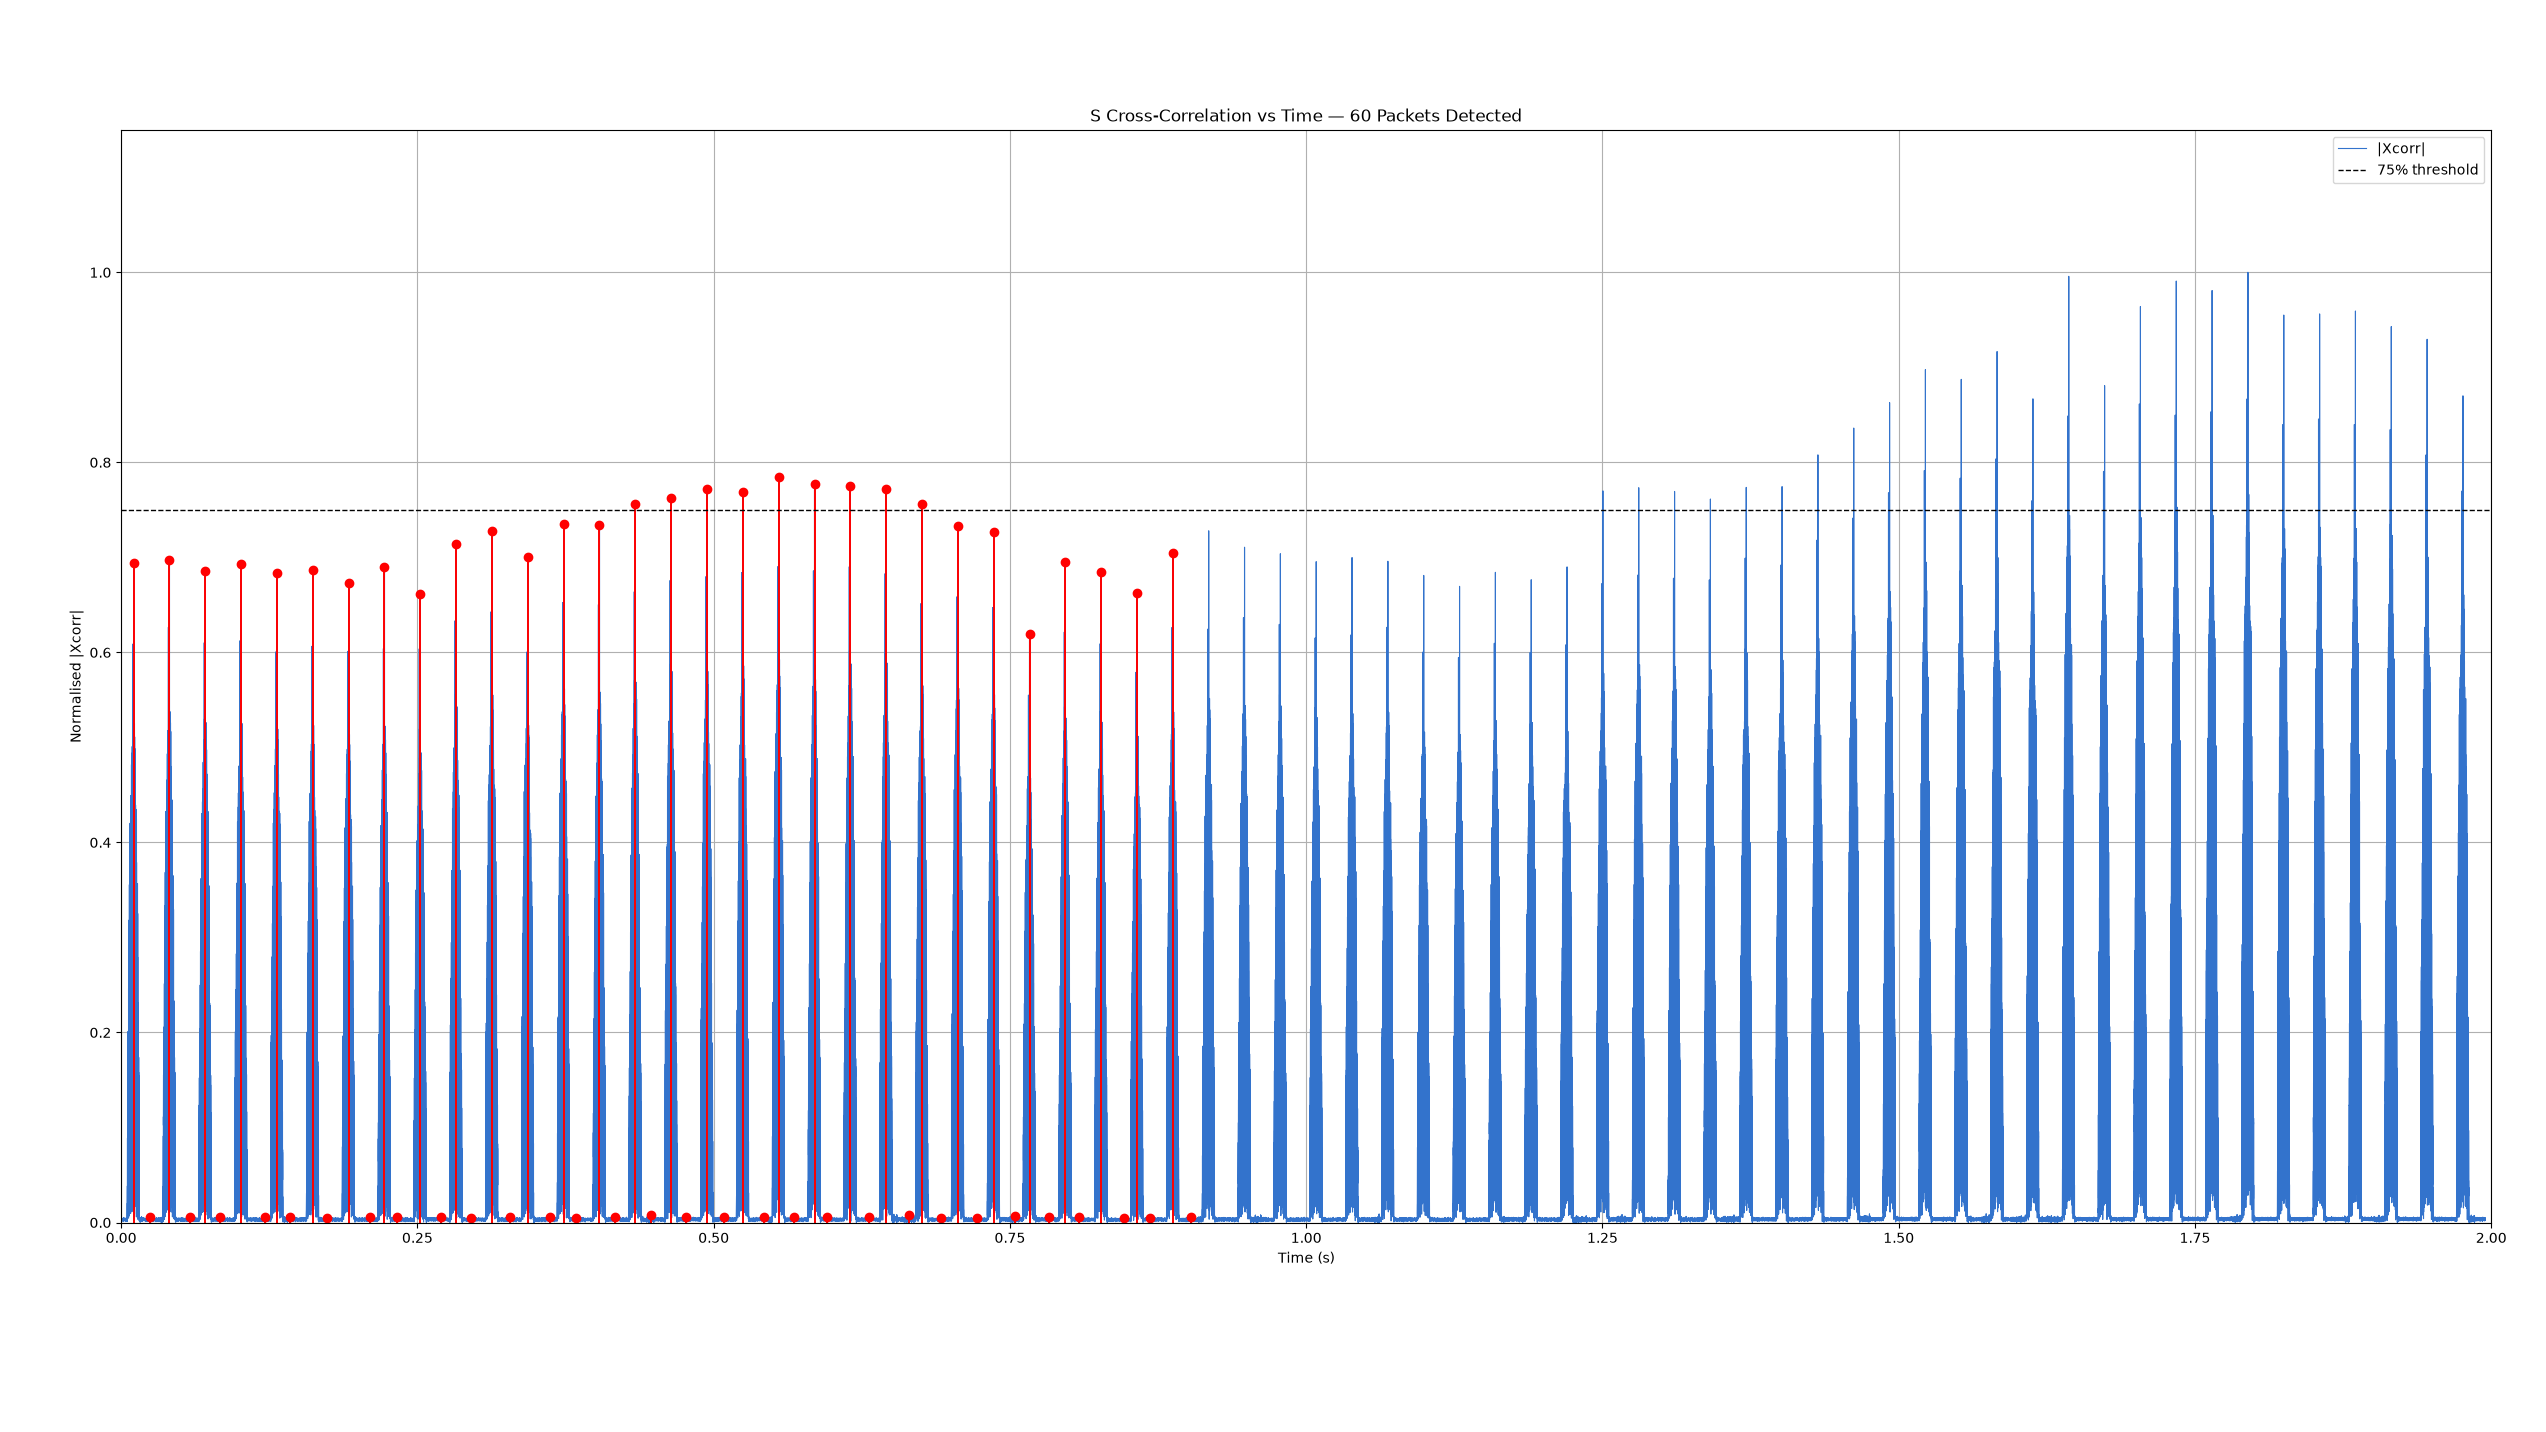
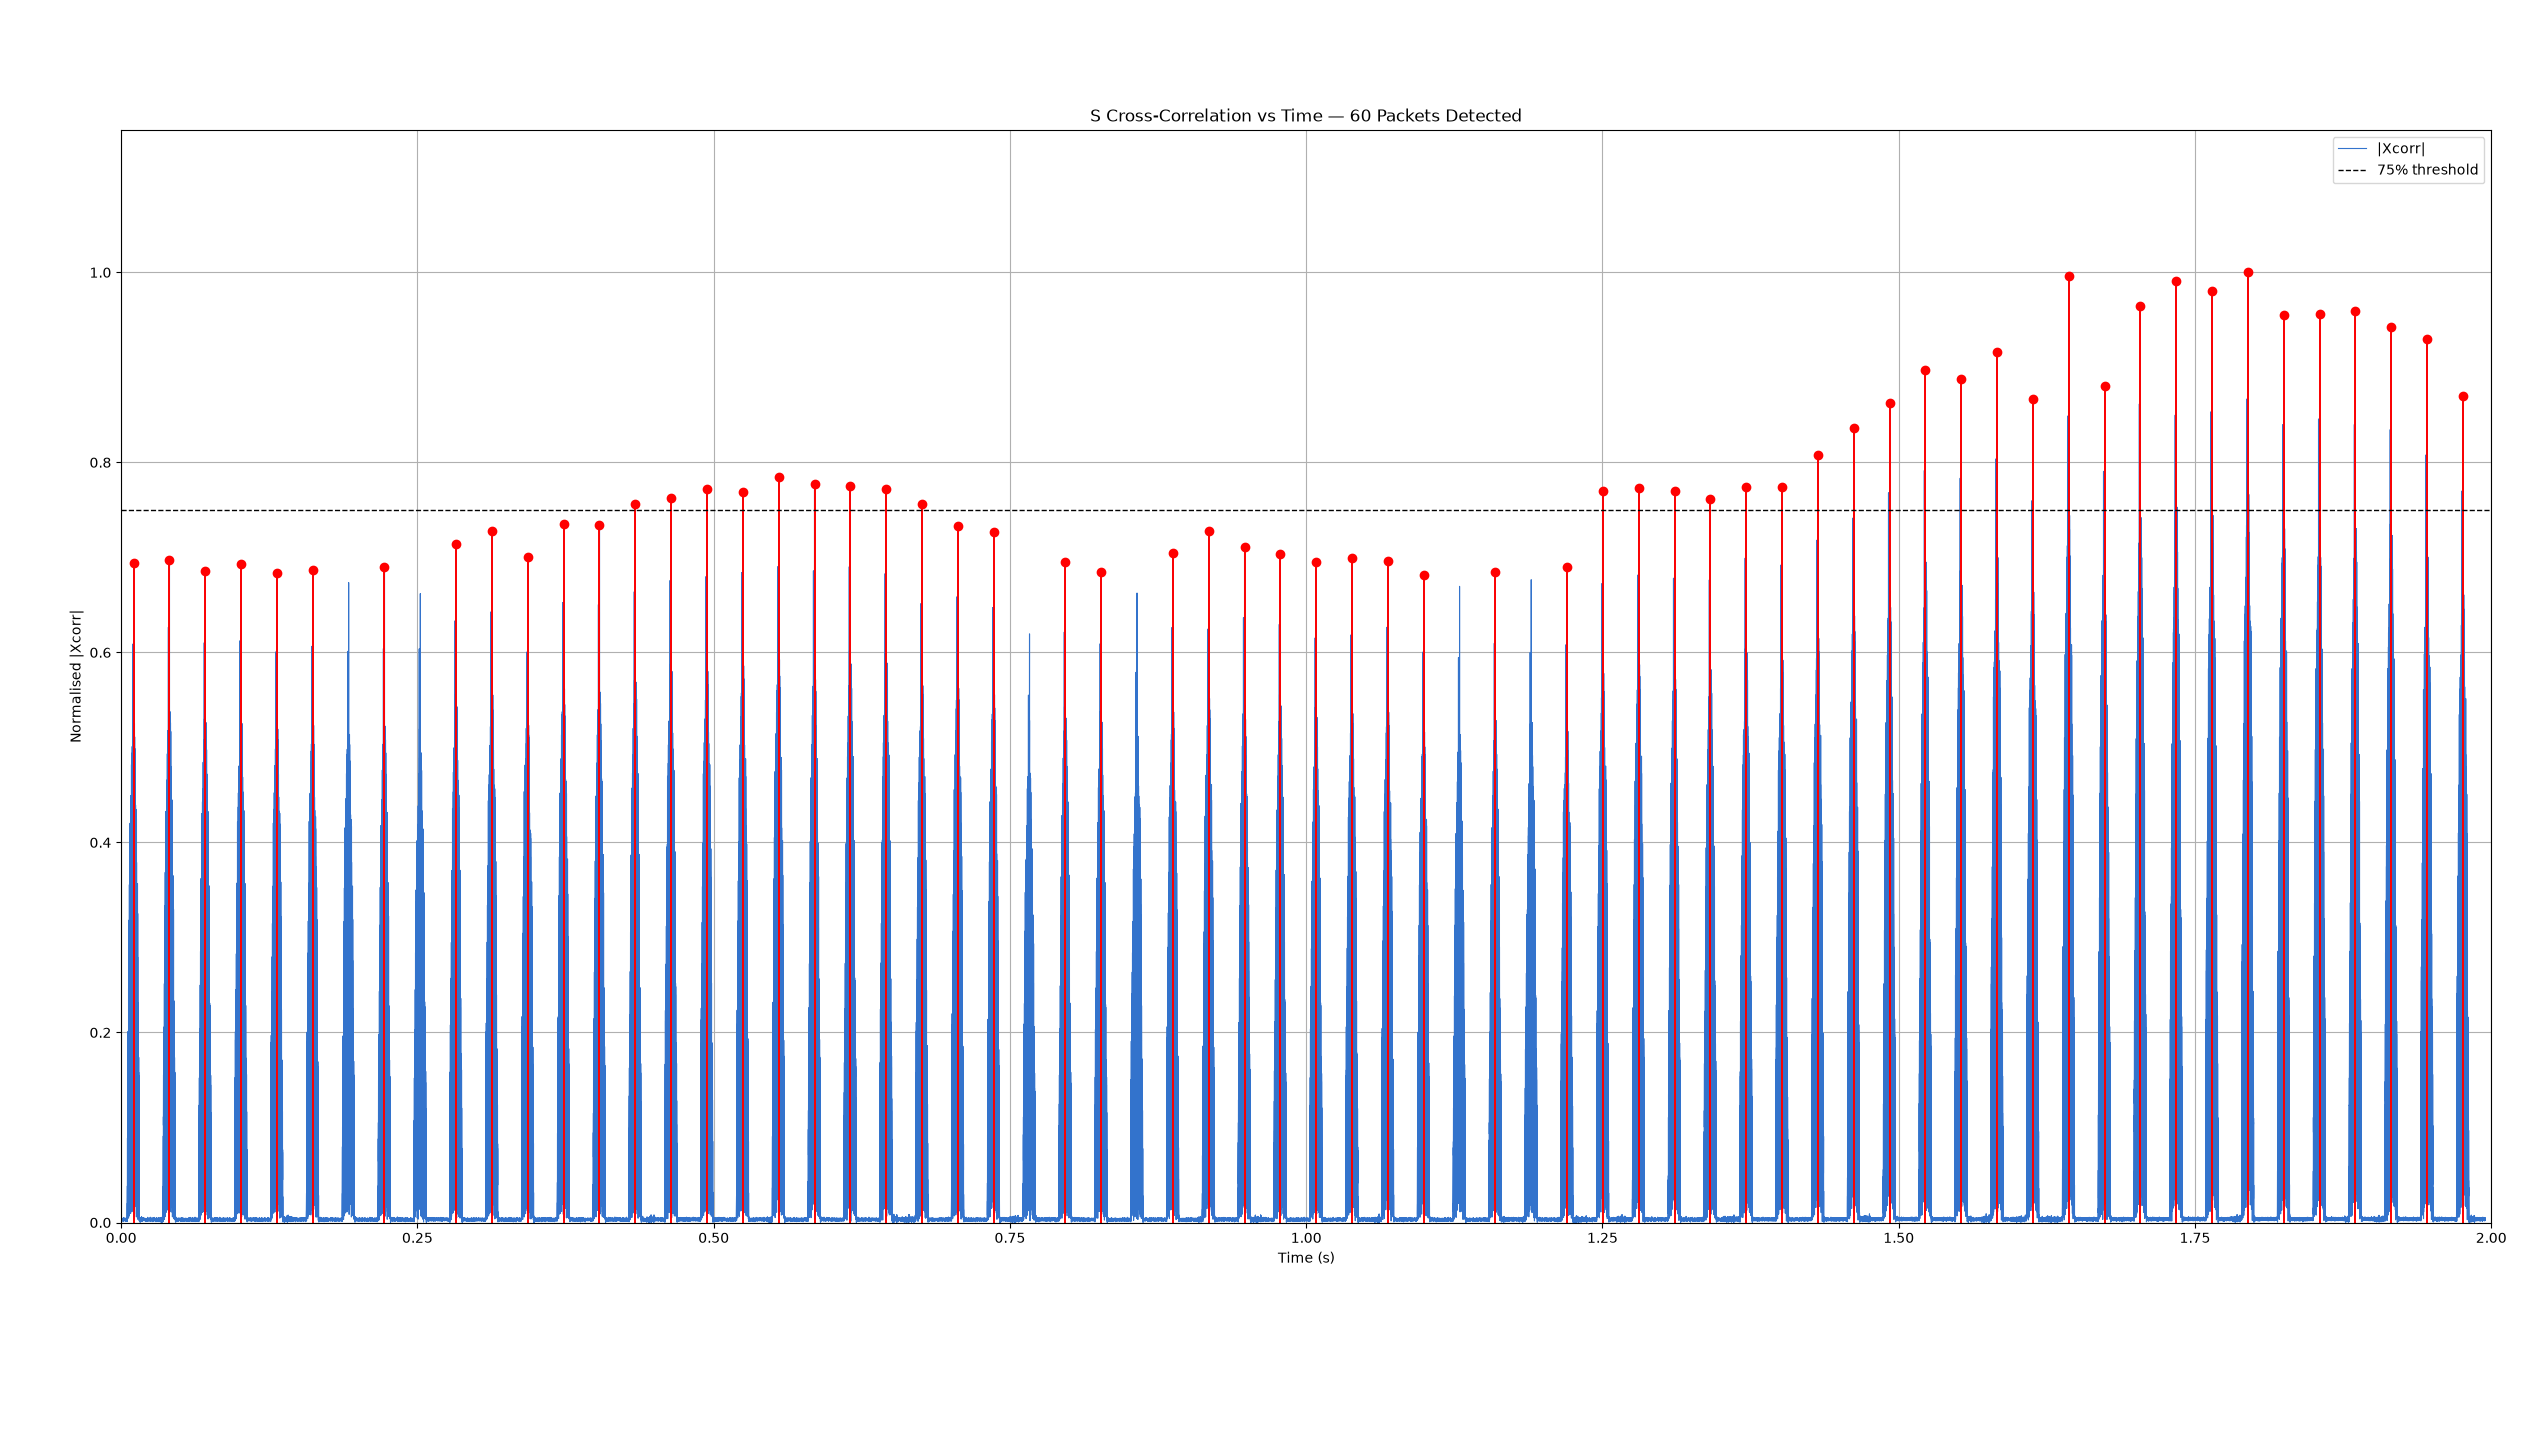
Updated BF Signal Processing

diff --git a/data_processing/signal_processing_bf.py b/data_processing/signal_processing_bf.py
@@ -139,9 +139,9 @@ def detect_packets(rx, ref_sig):
     min_prom = MIN_PROM_FRAC * np.max(corrMag)
     pks_locs, _ = sps_sig.find_peaks(corrMag, distance=MIN_PEAK_DIST, prominence=min_prom)
     pks_vals    = corrMag[pks_locs]
-    # sort_idx    = np.argsort(pks_vals)[::-1]
-    # pks_vals    = pks_vals[sort_idx]
-    # pks_locs    = pks_locs[sort_idx]
+    sort_idx    = np.argsort(pks_vals)[::-1]
+    pks_vals    = pks_vals[sort_idx]
+    pks_locs    = pks_locs[sort_idx]
     print(f"corrVals {corrVals[:10]}")
     return corrVals, corrMag, lags, pks_locs, pks_vals
 
